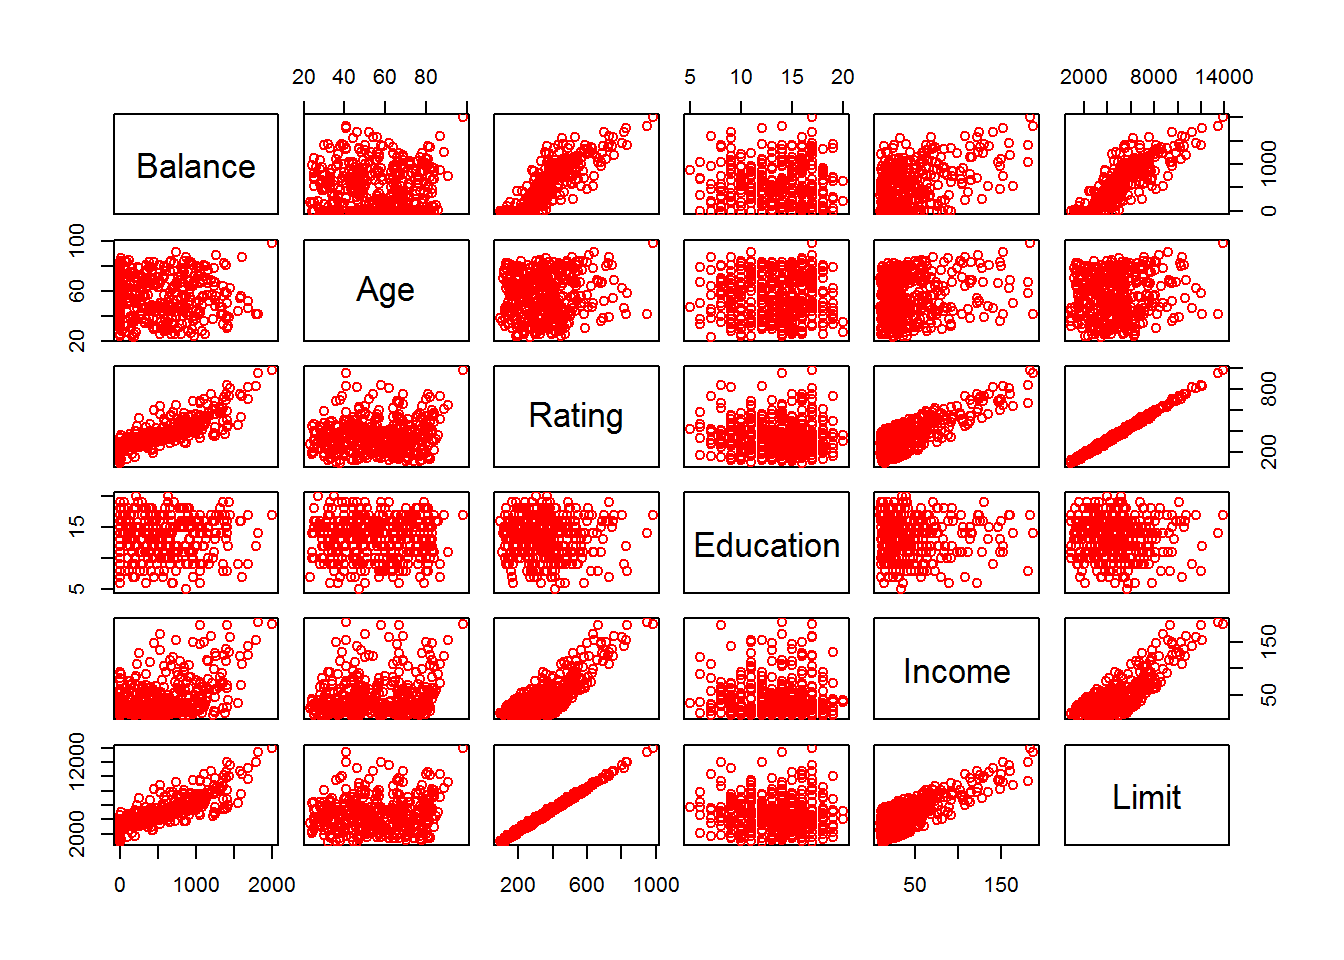
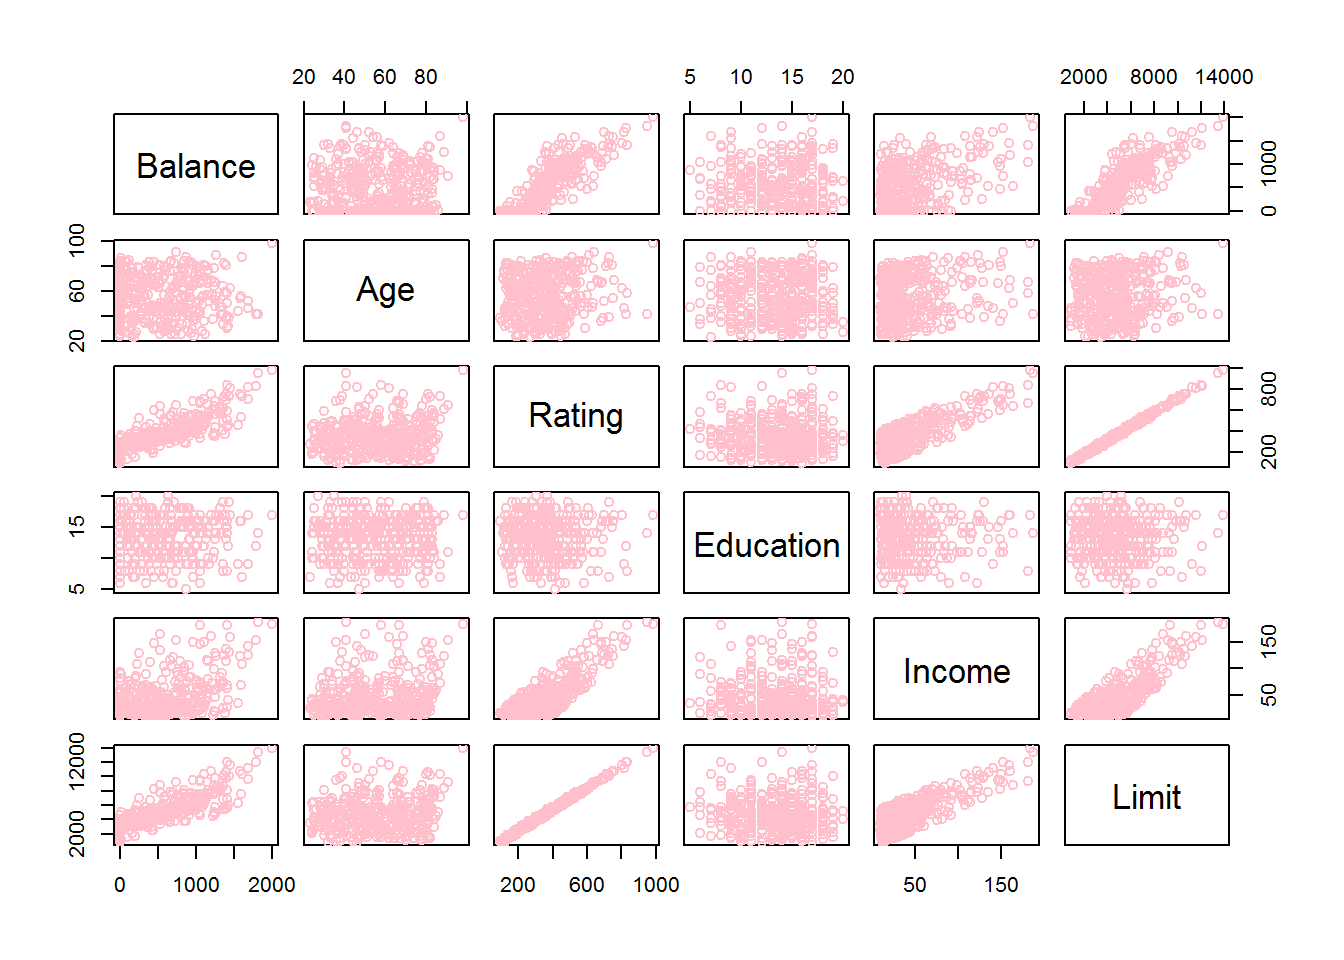
a

diff --git a/content/post/2019-01-25-RL5.html b/content/post/2019-01-25-RL5.html
@@ -285,8 +285,11 @@ round(res, 4)</code></pre>
 <p>Este enfoque nos permite una interpretación independiente de las unidades de medida de cada regresor lo cual ofrece una ventaja sobre la estiamación en niveles para detectar la importancia relativa de las variables independientes, incluso en los casos en los que cada regresor se expresa por unidades de medida heterogéneas. Importante en esta especificación el intercepto <span class="math inline">\(\beta_0\)</span> toma el valor de cero.</p>
 <ol style="list-style-type: lower-alpha">
 <li><p>Estime el modelo <span class="math inline">\(price=\beta_0+\beta_1 nox+\beta_2 crime+\beta_3 rooms+\beta_4 dist+\beta_5 stratio\)</span> en niveles. Interprete los resultados.</p></li>
-<li><p>Estime el modelo usando las variables estandarizadas (z-scores). Interprete los coeficientes (cambio de una desviación estándard) respecto a los cambios en la variable dependiente. ¿Qué variable tiene el mayor impacto sobre el valor promedio de las viviendas en las localidades del estudio?</p></li>
-<li><p>Estime el modelo considerando la expresión logarítmica para la variable dependiente y las variables independientes NO_x y dist.</p></li>
+<li><p>Estime el modelo usando las variables estandarizadas (z-scores). Interprete los coeficientes (cambio de una desviación estándard) respecto a los cambios en la variable dependiente.</p></li>
+</ol>
+<p>¿Qué variable tiene el mayor impacto sobre el valor promedio de las viviendas en las localidades del estudio?</p>
+<ol start="3" style="list-style-type: lower-alpha">
+<li>Estime el modelo considerando la expresión logarítmica para la variable dependiente y las variables independientes NO_x y dist.</li>
 </ol>
 <p>Interprete los resutlados (Tip: Elasticidades.)</p>
 <ol start="4" style="list-style-type: lower-alpha">
@@ -307,7 +310,7 @@ Credit&lt;-select(Credit,-c(ID, Married,Ethnicity,Student,Gender,Cards))
 
 
 
-pairs(~Balance+Age+ Rating+Education+ Income+ Limit, data=Credit,col = &quot;red&quot;, pch=1)</code></pre>
+pairs(~Balance+Age+ Rating+Education+ Income+ Limit, data=Credit,col = &quot;pink&quot;, pch=1)</code></pre>
 <p><img src="/post/2019-01-25-RL5_files/figure-html/unnamed-chunk-11-1.png" width="672" /></p>
 <p>El objetivo es modelar la variable dependiente <strong>saldo</strong> en función de las diversas características del inidviduo.</p>
 <p>Note que las variables Sexo (Gender) y grupo étnico son categóricas (factores). Podemos incluirlas en el modeo creando variables <em>dummy</em>:</p>
@@ -455,8 +458,8 @@ pairs(~Balance+Age+ Rating+Education+ Income+ Limit, data=Credit,col = &quot;red
 ## Multiple R-squared:  0.4408, Adjusted R-squared:  0.4343 
 ## F-statistic: 68.18 on 6 and 519 DF,  p-value: &lt; 2.2e-16</code></pre>
 <p>Los resultados indican que considerando los mismos niveles de educación, experiencia y antigüedad (incluido el efecto no lineal de estas últimas variables), las mujeres promedian un salario 29.6% inferior al de los hombres. Nuevamente enfatizar que la interpretación <span class="math inline">\(\beta_0\)</span> carece de interés.</p>
-<p>Respecto a los terminos cuadráticos ´(<strong>efectos no lineales</strong>) estos indican laS tasas de cambio en la pendiente de cada variable (ej. tenure y exper), por lo que en este caso ambas variables implican una reDucción en la del efecto atribuido a la variable original.</p>
-<p>Así, un año adicional en el empleo genera una reducción en la pendiente de 0.05%.(efecto de <span class="math inline">\(tenure^2\)</span>). Note que en este caso el efecto constante de la variable <em>tenure</em> es un incremento de <span class="math inline">\(3.1\%\)</span>, este es el cambio con un año adicional con ese empleo, pero esta ganancia decrece con cada año extra.</p>
+<p>Respecto a los terminos cuadráticos ´(<strong>efectos no lineales</strong>) estos indican laS tasas de cambio en la pendiente de cada variable (ej. tenure y exper), por lo que en este caso ambas variables implican una reducción del efecto atribuido a la variable en niveles.</p>
+<p>Así, un año adicional de experiencia genera una reducción en la pendiente de 0.05%.(efecto de <span class="math inline">\(exper^2\)</span>). Note que en este caso el efecto constante de la variable <em>exper</em> es un incremento de <span class="math inline">\(2.9\%\)</span>, este es el cambio con un año adicional de experiencia, pero esta ganancia decrece con cada año extra.</p>
 </div>
 <div id="ejemplo-4" class="section level4">
 <h4>Ejemplo 4</h4>
@@ -559,7 +562,7 @@ pairs(~Balance+Age+ Rating+Education+ Income+ Limit, data=Credit,col = &quot;red
 ## Multiple R-squared:  0.6491, Adjusted R-squared:  0.6322 
 ## F-statistic: 38.38 on 4 and 83 DF,  p-value: &lt; 2.2e-16</code></pre>
 <p>Los resultados indican que las casas estilo colonial (<span class="math inline">\(X_{colonial}=1\)</span>) tienen un diferencial de 5.3% en el precio promedio respecto a las casas de otros estilos. (El signo es positivo lo que corresponde a un incremento en el precio para las casas de estilo colonial).</p>
-<p>Adicionalmente las variables <span class="math inline">\(llotsize\)</span> y <span class="math inline">\(lsqrft\)</span> muestran los cAmbios porcentuales de la variable dependiente <em>log(precio)</em> ante el cambio de <span class="math inline">\(1\%\)</span>. POr lo que estos coeficientes <span class="math inline">\(\hat \beta\)</span> de hecho permiten conocer la <strong>elasticidad</strong> un concpeto ampliamente usaso en estudios osicales para indicar la flexibilidad de una variable ante variaciones en posibles determinantes.</p>
+<p>Adicionalmente las variables <span class="math inline">\(llotsize\)</span> y <span class="math inline">\(lsqrft\)</span> muestran los cambios porcentuales de la variable dependiente <em>log(precio)</em> ante el cambio de <span class="math inline">\(1\%\)</span>. POr lo que estos coeficientes <span class="math inline">\(\hat \beta\)</span> de hecho permiten conocer la <strong>elasticidad</strong> un concpeto ampliamente usado en estudios sociales para indicar la flexibilidad de una variable ante variaciones en posibles determinantes.</p>
 <p>En ambos casos el precios es inelástico, sin embargo, es relativamente más sensible respecto al tamaño de la construcción (variable <em>sqrft</em>).</p>
 <p>Note la interpretación del coeficiente <span class="math inline">\(\hat \beta_{colonial}\)</span> como la expresión porcentual en la diferencia entre los grupos de la variable dummy controlando por el resto de atributos. Note finalmente que la variable colonial no es estadísticamente significativa, <strong>NO rechazamos</strong> <span class="math inline">\(H_0: \beta_{colonial}=0\)</span></p>
 </div>
@@ -573,7 +576,8 @@ pairs(~Balance+Age+ Rating+Education+ Income+ Limit, data=Credit,col = &quot;red
 <li><p>Construya una matriz de correlación para las siguientes variables esperanza de vida (<em>life</em>), Producto Interno Bruto per capita 2005-2009 (miles de USD constantes a 2005) (<em>gdp</em>), años promedio de escolaridad (<em>school</em>), tasa de fertilidad en pobalción adolescente nacimientos por cada 1000 (<em>adfert</em>: Adolescent fertility: births/1000 births 2005/2009). Mortalidad infantil (<em>chldmort</em>: tasa de mortalidad infantil (antes de 5 años por cada 1000 nacimientos). Grafique la matriz de correlación.</p></li>
 <li><p>Estime el modelo <span class="math inline">\(life=\beta_0 +\beta_1gdp+\beta_2school+\beta_3 adfert +\beta_4 chldmort+\epsilon\)</span></p></li>
 </ol>
-<p>Comente los resultados para los parámetros <span class="math inline">\(\hat\beta_p\)</span> incluidos los parámetros sobre el ajuste del modelo <span class="math inline">\(R^2\)</span> (¿Qué proporción de la varianza en la esperanza de vida se explica por el modelo? ). El estadístico <strong>F</strong> para la prueba de hipótesis <span class="math inline">\(H0:\beta_1,=\beta_2=...\beta_j=0\)</span> Que podemos decir de la validez del modelo en su conjunto.</p>
+<p>Comente los resultados para los parámetros <span class="math inline">\(\hat\beta_p\)</span> incluidos los parámetros sobre el ajuste del modelo <span class="math inline">\(R^2\)</span> (¿Qué proporción de la varianza en la esperanza de vida se explica por el modelo? ). El estadístico <strong>F</strong> para la prueba de hipótesis <span class="math inline">\(H0:\beta_1,=\beta_2=...\beta_j=0\)</span></p>
+<p>¿Que podemos decir de la validez del modelo en su conjunto?</p>
 <ol start="5" style="list-style-type: lower-alpha">
 <li><p>Según los parámetros del modelo, ¿cuantos años puede mejorar la esperanza de vida en un pais de la muestra si el GDP tiene un incremento de 10,000 USD per capita.</p></li>
 <li><p>Considerando los parámetros estimados del modelo, ¿Qué efecto tendría la reducción de 10 individuos en al tasa de mortablidad infantil por cada 1000 nacimientos, sobre la esperanza de vida promedio para esta muestra de países?</p></li>

diff --git a/public/post/2019-01-25-rl5/index.html b/public/post/2019-01-25-rl5/index.html
@@ -398,8 +398,11 @@ round(res, 4)</code></pre>
 <p>Este enfoque nos permite una interpretación independiente de las unidades de medida de cada regresor lo cual ofrece una ventaja sobre la estiamación en niveles para detectar la importancia relativa de las variables independientes, incluso en los casos en los que cada regresor se expresa por unidades de medida heterogéneas. Importante en esta especificación el intercepto <span class="math inline">\(\beta_0\)</span> toma el valor de cero.</p>
 <ol style="list-style-type: lower-alpha">
 <li><p>Estime el modelo <span class="math inline">\(price=\beta_0+\beta_1 nox+\beta_2 crime+\beta_3 rooms+\beta_4 dist+\beta_5 stratio\)</span> en niveles. Interprete los resultados.</p></li>
-<li><p>Estime el modelo usando las variables estandarizadas (z-scores). Interprete los coeficientes (cambio de una desviación estándard) respecto a los cambios en la variable dependiente. ¿Qué variable tiene el mayor impacto sobre el valor promedio de las viviendas en las localidades del estudio?</p></li>
-<li><p>Estime el modelo considerando la expresión logarítmica para la variable dependiente y las variables independientes NO_x y dist.</p></li>
+<li><p>Estime el modelo usando las variables estandarizadas (z-scores). Interprete los coeficientes (cambio de una desviación estándard) respecto a los cambios en la variable dependiente.</p></li>
+</ol>
+<p>¿Qué variable tiene el mayor impacto sobre el valor promedio de las viviendas en las localidades del estudio?</p>
+<ol start="3" style="list-style-type: lower-alpha">
+<li>Estime el modelo considerando la expresión logarítmica para la variable dependiente y las variables independientes NO_x y dist.</li>
 </ol>
 <p>Interprete los resutlados (Tip: Elasticidades.)</p>
 <ol start="4" style="list-style-type: lower-alpha">
@@ -420,7 +423,7 @@ Credit&lt;-select(Credit,-c(ID, Married,Ethnicity,Student,Gender,Cards))
 
 
 
-pairs(~Balance+Age+ Rating+Education+ Income+ Limit, data=Credit,col = &quot;red&quot;, pch=1)</code></pre>
+pairs(~Balance+Age+ Rating+Education+ Income+ Limit, data=Credit,col = &quot;pink&quot;, pch=1)</code></pre>
 <p><img src="/post/2019-01-25-RL5_files/figure-html/unnamed-chunk-11-1.png" width="672" /></p>
 <p>El objetivo es modelar la variable dependiente <strong>saldo</strong> en función de las diversas características del inidviduo.</p>
 <p>Note que las variables Sexo (Gender) y grupo étnico son categóricas (factores). Podemos incluirlas en el modeo creando variables <em>dummy</em>:</p>
@@ -568,8 +571,8 @@ pairs(~Balance+Age+ Rating+Education+ Income+ Limit, data=Credit,col = &quot;red
 ## Multiple R-squared:  0.4408, Adjusted R-squared:  0.4343 
 ## F-statistic: 68.18 on 6 and 519 DF,  p-value: &lt; 2.2e-16</code></pre>
 <p>Los resultados indican que considerando los mismos niveles de educación, experiencia y antigüedad (incluido el efecto no lineal de estas últimas variables), las mujeres promedian un salario 29.6% inferior al de los hombres. Nuevamente enfatizar que la interpretación <span class="math inline">\(\beta_0\)</span> carece de interés.</p>
-<p>Respecto a los terminos cuadráticos ´(<strong>efectos no lineales</strong>) estos indican laS tasas de cambio en la pendiente de cada variable (ej. tenure y exper), por lo que en este caso ambas variables implican una reDucción en la del efecto atribuido a la variable original.</p>
-<p>Así, un año adicional en el empleo genera una reducción en la pendiente de 0.05%.(efecto de <span class="math inline">\(tenure^2\)</span>). Note que en este caso el efecto constante de la variable <em>tenure</em> es un incremento de <span class="math inline">\(3.1\%\)</span>, este es el cambio con un año adicional con ese empleo, pero esta ganancia decrece con cada año extra.</p>
+<p>Respecto a los terminos cuadráticos ´(<strong>efectos no lineales</strong>) estos indican laS tasas de cambio en la pendiente de cada variable (ej. tenure y exper), por lo que en este caso ambas variables implican una reducción del efecto atribuido a la variable en niveles.</p>
+<p>Así, un año adicional de experiencia genera una reducción en la pendiente de 0.05%.(efecto de <span class="math inline">\(exper^2\)</span>). Note que en este caso el efecto constante de la variable <em>exper</em> es un incremento de <span class="math inline">\(2.9\%\)</span>, este es el cambio con un año adicional de experiencia, pero esta ganancia decrece con cada año extra.</p>
 </div>
 <div id="ejemplo-4" class="section level4">
 <h4>Ejemplo 4</h4>
@@ -672,7 +675,7 @@ pairs(~Balance+Age+ Rating+Education+ Income+ Limit, data=Credit,col = &quot;red
 ## Multiple R-squared:  0.6491, Adjusted R-squared:  0.6322 
 ## F-statistic: 38.38 on 4 and 83 DF,  p-value: &lt; 2.2e-16</code></pre>
 <p>Los resultados indican que las casas estilo colonial (<span class="math inline">\(X_{colonial}=1\)</span>) tienen un diferencial de 5.3% en el precio promedio respecto a las casas de otros estilos. (El signo es positivo lo que corresponde a un incremento en el precio para las casas de estilo colonial).</p>
-<p>Adicionalmente las variables <span class="math inline">\(llotsize\)</span> y <span class="math inline">\(lsqrft\)</span> muestran los cAmbios porcentuales de la variable dependiente <em>log(precio)</em> ante el cambio de <span class="math inline">\(1\%\)</span>. POr lo que estos coeficientes <span class="math inline">\(\hat \beta\)</span> de hecho permiten conocer la <strong>elasticidad</strong> un concpeto ampliamente usaso en estudios osicales para indicar la flexibilidad de una variable ante variaciones en posibles determinantes.</p>
+<p>Adicionalmente las variables <span class="math inline">\(llotsize\)</span> y <span class="math inline">\(lsqrft\)</span> muestran los cambios porcentuales de la variable dependiente <em>log(precio)</em> ante el cambio de <span class="math inline">\(1\%\)</span>. POr lo que estos coeficientes <span class="math inline">\(\hat \beta\)</span> de hecho permiten conocer la <strong>elasticidad</strong> un concpeto ampliamente usado en estudios sociales para indicar la flexibilidad de una variable ante variaciones en posibles determinantes.</p>
 <p>En ambos casos el precios es inelástico, sin embargo, es relativamente más sensible respecto al tamaño de la construcción (variable <em>sqrft</em>).</p>
 <p>Note la interpretación del coeficiente <span class="math inline">\(\hat \beta_{colonial}\)</span> como la expresión porcentual en la diferencia entre los grupos de la variable dummy controlando por el resto de atributos. Note finalmente que la variable colonial no es estadísticamente significativa, <strong>NO rechazamos</strong> <span class="math inline">\(H_0: \beta_{colonial}=0\)</span></p>
 </div>
@@ -686,7 +689,8 @@ pairs(~Balance+Age+ Rating+Education+ Income+ Limit, data=Credit,col = &quot;red
 <li><p>Construya una matriz de correlación para las siguientes variables esperanza de vida (<em>life</em>), Producto Interno Bruto per capita 2005-2009 (miles de USD constantes a 2005) (<em>gdp</em>), años promedio de escolaridad (<em>school</em>), tasa de fertilidad en pobalción adolescente nacimientos por cada 1000 (<em>adfert</em>: Adolescent fertility: births/1000 births 2005/2009). Mortalidad infantil (<em>chldmort</em>: tasa de mortalidad infantil (antes de 5 años por cada 1000 nacimientos). Grafique la matriz de correlación.</p></li>
 <li><p>Estime el modelo <span class="math inline">\(life=\beta_0 +\beta_1gdp+\beta_2school+\beta_3 adfert +\beta_4 chldmort+\epsilon\)</span></p></li>
 </ol>
-<p>Comente los resultados para los parámetros <span class="math inline">\(\hat\beta_p\)</span> incluidos los parámetros sobre el ajuste del modelo <span class="math inline">\(R^2\)</span> (¿Qué proporción de la varianza en la esperanza de vida se explica por el modelo? ). El estadístico <strong>F</strong> para la prueba de hipótesis <span class="math inline">\(H0:\beta_1,=\beta_2=...\beta_j=0\)</span> Que podemos decir de la validez del modelo en su conjunto.</p>
+<p>Comente los resultados para los parámetros <span class="math inline">\(\hat\beta_p\)</span> incluidos los parámetros sobre el ajuste del modelo <span class="math inline">\(R^2\)</span> (¿Qué proporción de la varianza en la esperanza de vida se explica por el modelo? ). El estadístico <strong>F</strong> para la prueba de hipótesis <span class="math inline">\(H0:\beta_1,=\beta_2=...\beta_j=0\)</span></p>
+<p>¿Que podemos decir de la validez del modelo en su conjunto?</p>
 <ol start="5" style="list-style-type: lower-alpha">
 <li><p>Según los parámetros del modelo, ¿cuantos años puede mejorar la esperanza de vida en un pais de la muestra si el GDP tiene un incremento de 10,000 USD per capita.</p></li>
 <li><p>Considerando los parámetros estimados del modelo, ¿Qué efecto tendría la reducción de 10 individuos en al tasa de mortablidad infantil por cada 1000 nacimientos, sobre la esperanza de vida promedio para esta muestra de países?</p></li>
